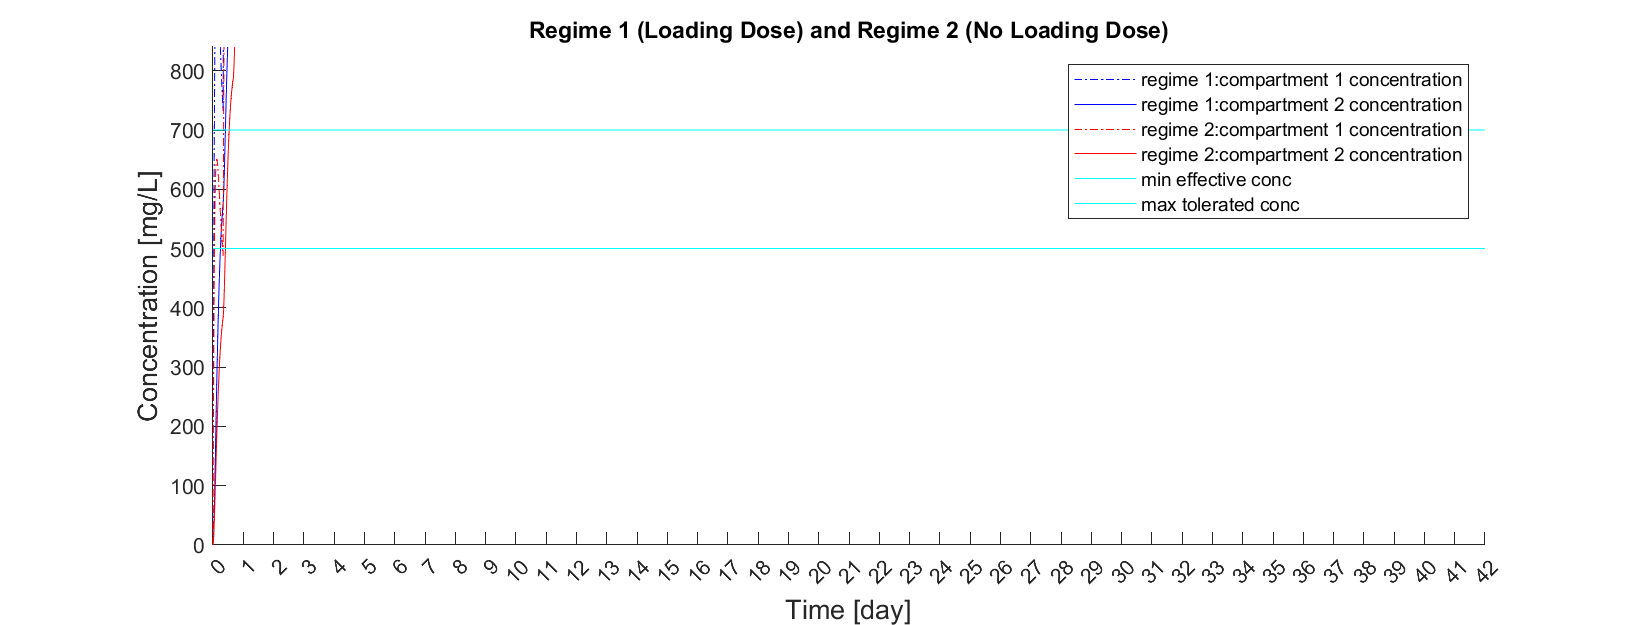
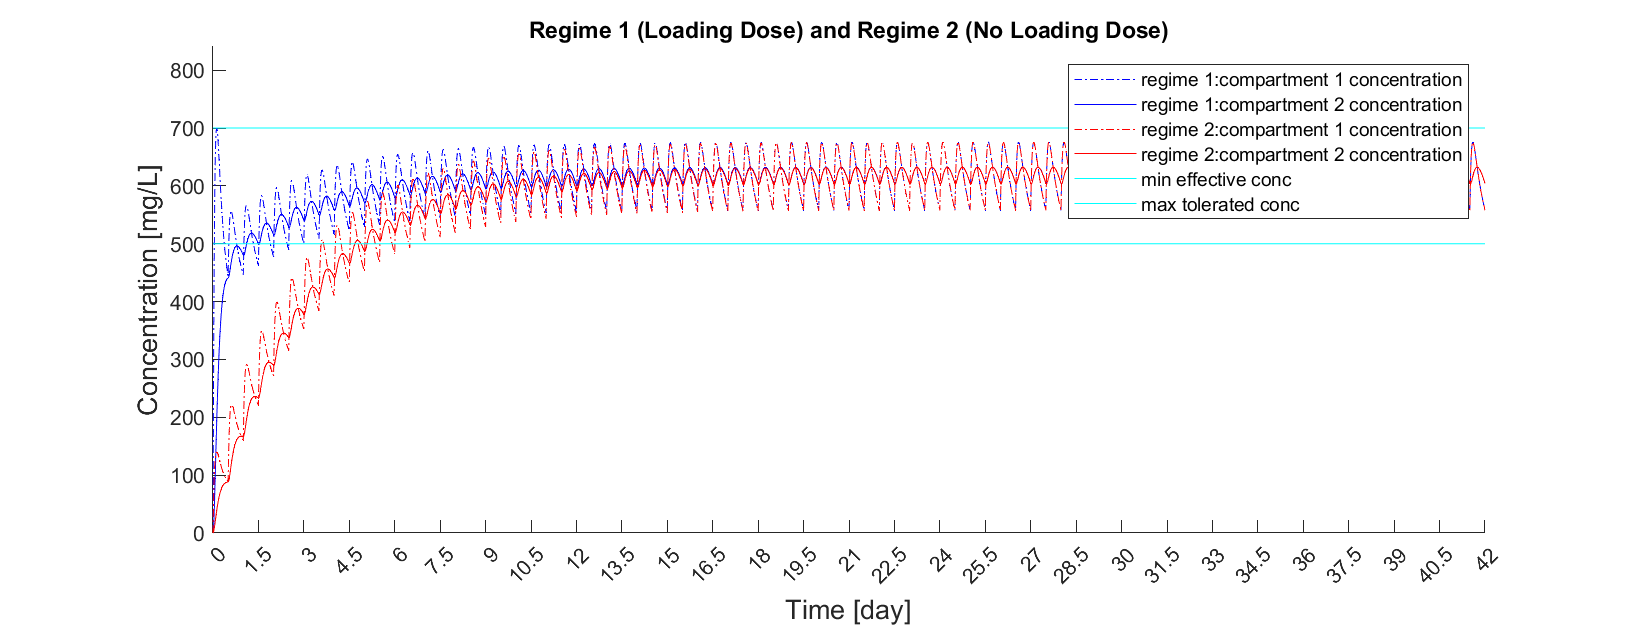
changed dosing chooser function to get  reasonable dosing regime

Changed region(s): [[0.0622, 0.0912, 0.9013, 0.8208], [0.0932, 0.8512, 0.9324, 0.9424]]

diff --git a/two_dosing_regimes.m b/two_dosing_regimes.m
@@ -33,7 +33,7 @@ p.interval=[];%%% prev value =24/3
 
 p.endtime=24*7*6; %h (6 weeks)
 
-[p.interval, p.maintence_dose,max_dose] = dosing_chooser_blank( @derivatives,p.min_effective_conc, p.max_tolerated_conc,p)
+[p.interval, p.maintence_dose,max_dose] = dosing_chooser( @derivatives,p.min_effective_conc, p.max_tolerated_conc,p)
 p.load_dose=max_dose
 
 for regime=[1 2]
@@ -131,8 +131,38 @@ dcdt = [ - 1*p.ka*a,
 end
 %%%%%%%%%%%%%%%%%%%%%%%%%%%%%%%%%%%%%%%%%%%%%%%%%%%%%%%%%%%%%%%%%%%%%%%%%%%
 %%%%%%%%%%%%%%%%%%%%%%%%%%%%%%%%%%%%%%%%%%%%%%%%%%%%%%%%%%%%%%%%%%%%%%%%%%%
-function [dose_interval, dose_amount,max_dose] = dosing_chooser_blank(derivativefunction, min_effective_conc, max_tolerated_conc,p)
-    dose_interval=24/3
-    dose_amount=2000
-    max_dose=3000
+function [dose_interval, dose_amount,max_dose] = dosing_chooser(derivativefunction, min_effective_conc, max_tolerated_conc,p)    
+    t_end=72
+    tspan = [0 72];     % max. time domain (h)
+    f0 = figure;
+    unit_conv=24
+    xlim_1=[0 72/unit_conv]
+    plottime= linspace(0, t_end,100)
+    %%%%%%%%%%%%%%%%%%%%%%%%%%%%%%%%%%%%%%%%%%%%%%%%%%%%%%%%%%%%%%%%%%%%%%%
+    
+    doses=[0 10 100 1000 10000]
+    doses=[1 2 4 6 8 10]*1000
+    doses=2000+ [0 1 2 3 4 5 6 7 8 9 10 ]*100
+    doses=2100+[1 2 3 4 5 6 7 8 9 10]*10
+    doses=2150
+    max_dose=2150
+    for initial_dose = doses
+        c0 =[initial_dose,0, 0]
+        options = odeset('RelTol',1e-12, 'AbsTol',[1e-12 1e-12 1e-12]);
+        [t_vals,c_vals]= ode45(@derivatives, tspan, c0, options, p)
+        
+        plot (t_vals,c_vals(:,2),'-k')
+        hold on
+        plot (t_vals,c_vals(:,3),'-b')
+        plot (t_vals,c_vals(:,1),'-r')
+
+    end
+    plot(plottime,(p.max_tolerated_conc)*ones(size(plottime)),'-c','DisplayName','threshold span')
+    plot(plottime,(p.min_effective_conc)*ones(size(plottime)),'-c','DisplayName','threshold span')
+    ylim([0 1.1*max_tolerated_conc])
+
+    %max_dose
+    dose_interval=24/2
+    dose_amount=max_dose/5
+    
 end 
